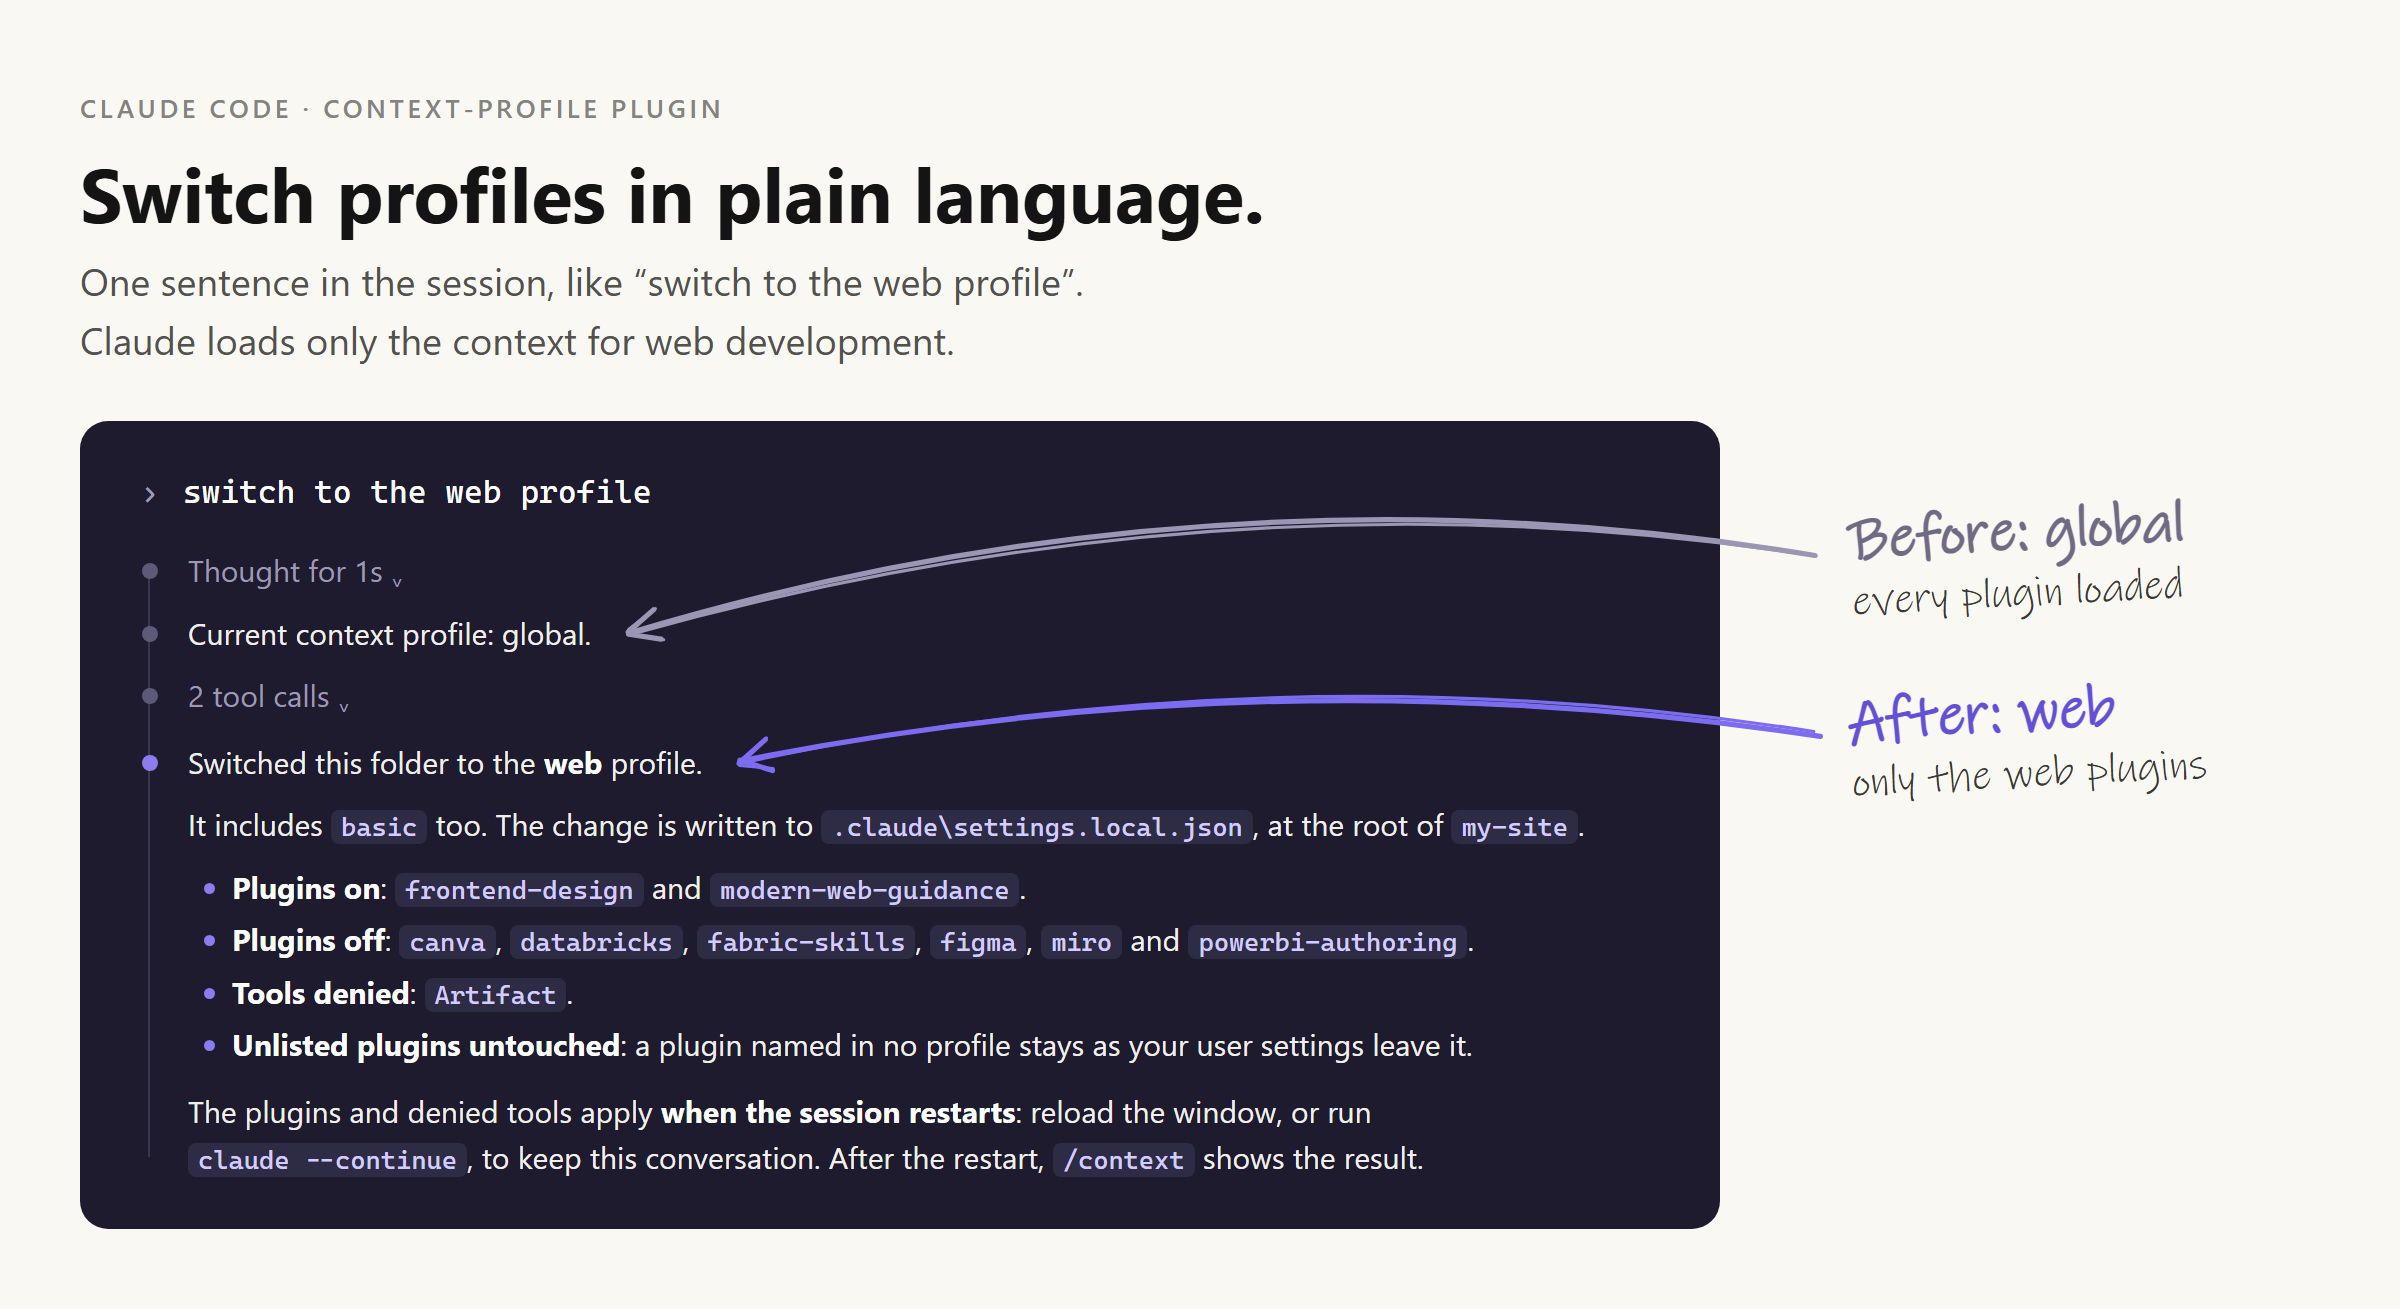
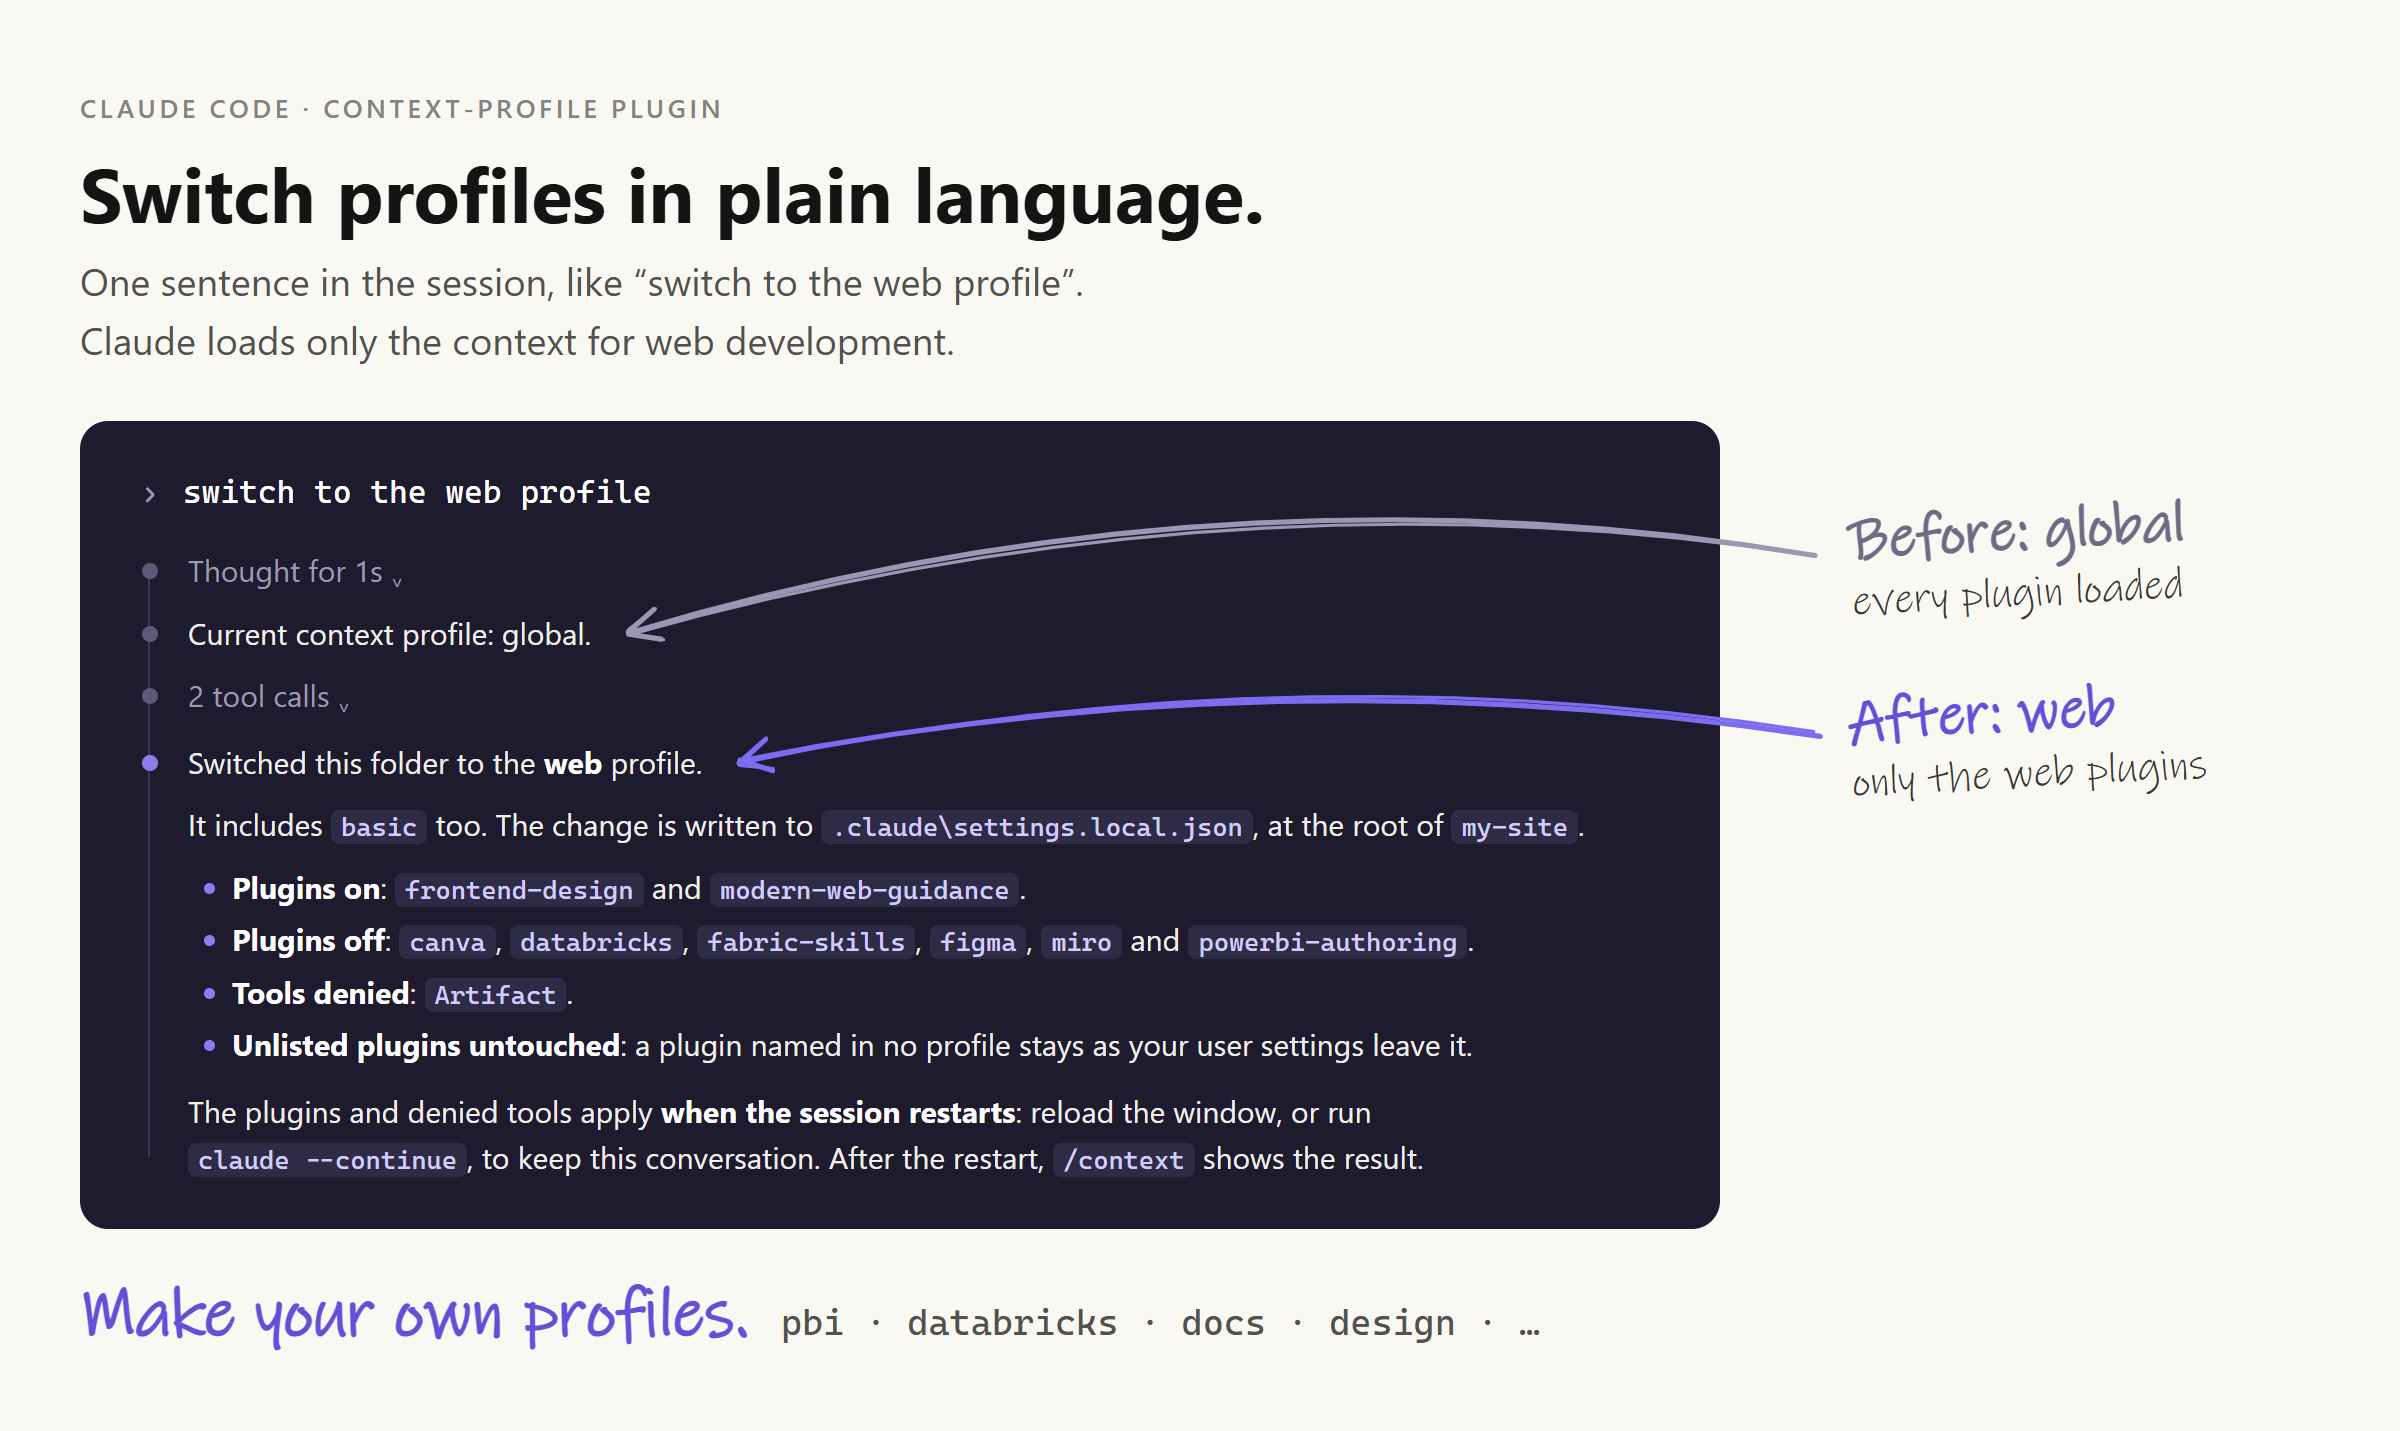
Session image: add "Make your own profiles"

Changed region(s): [[0.0312, 0.0611, 0.9062, 0.9473]]

diff --git a/docs/src/context-profile-session.html b/docs/src/context-profile-session.html
@@ -31,6 +31,8 @@
   .before { color: #6f6b85; font-weight: 700; }
   .after { color: var(--series-1); font-weight: 700; }
   svg.overlay { position: absolute; left: 0; top: 0; pointer-events: none; }
+  .own { margin-top: 22px; font: 700 34px "Ink Free", "Segoe Print", "Comic Sans MS", cursive; color: var(--series-1); }
+  .own span { margin-left: 16px; font: 400 18px "Cascadia Code", Consolas, monospace; color: var(--text-secondary); }
 </style></head>
 <body><div class="page">
   <div class="eyebrow">Claude Code &middot; context-profile plugin</div>
@@ -55,6 +57,7 @@
       </div>
     </div>
   </div>
+  <div class="own">Make your own profiles.<span>pbi &middot; databricks &middot; docs &middot; design &middot; &hellip;</span></div>
 </div>
 <div class="note before" id="n-before">Before: global<small>every plugin loaded</small></div>
 <div class="note after" id="n-after">After: web<small>only the web plugins</small></div>
